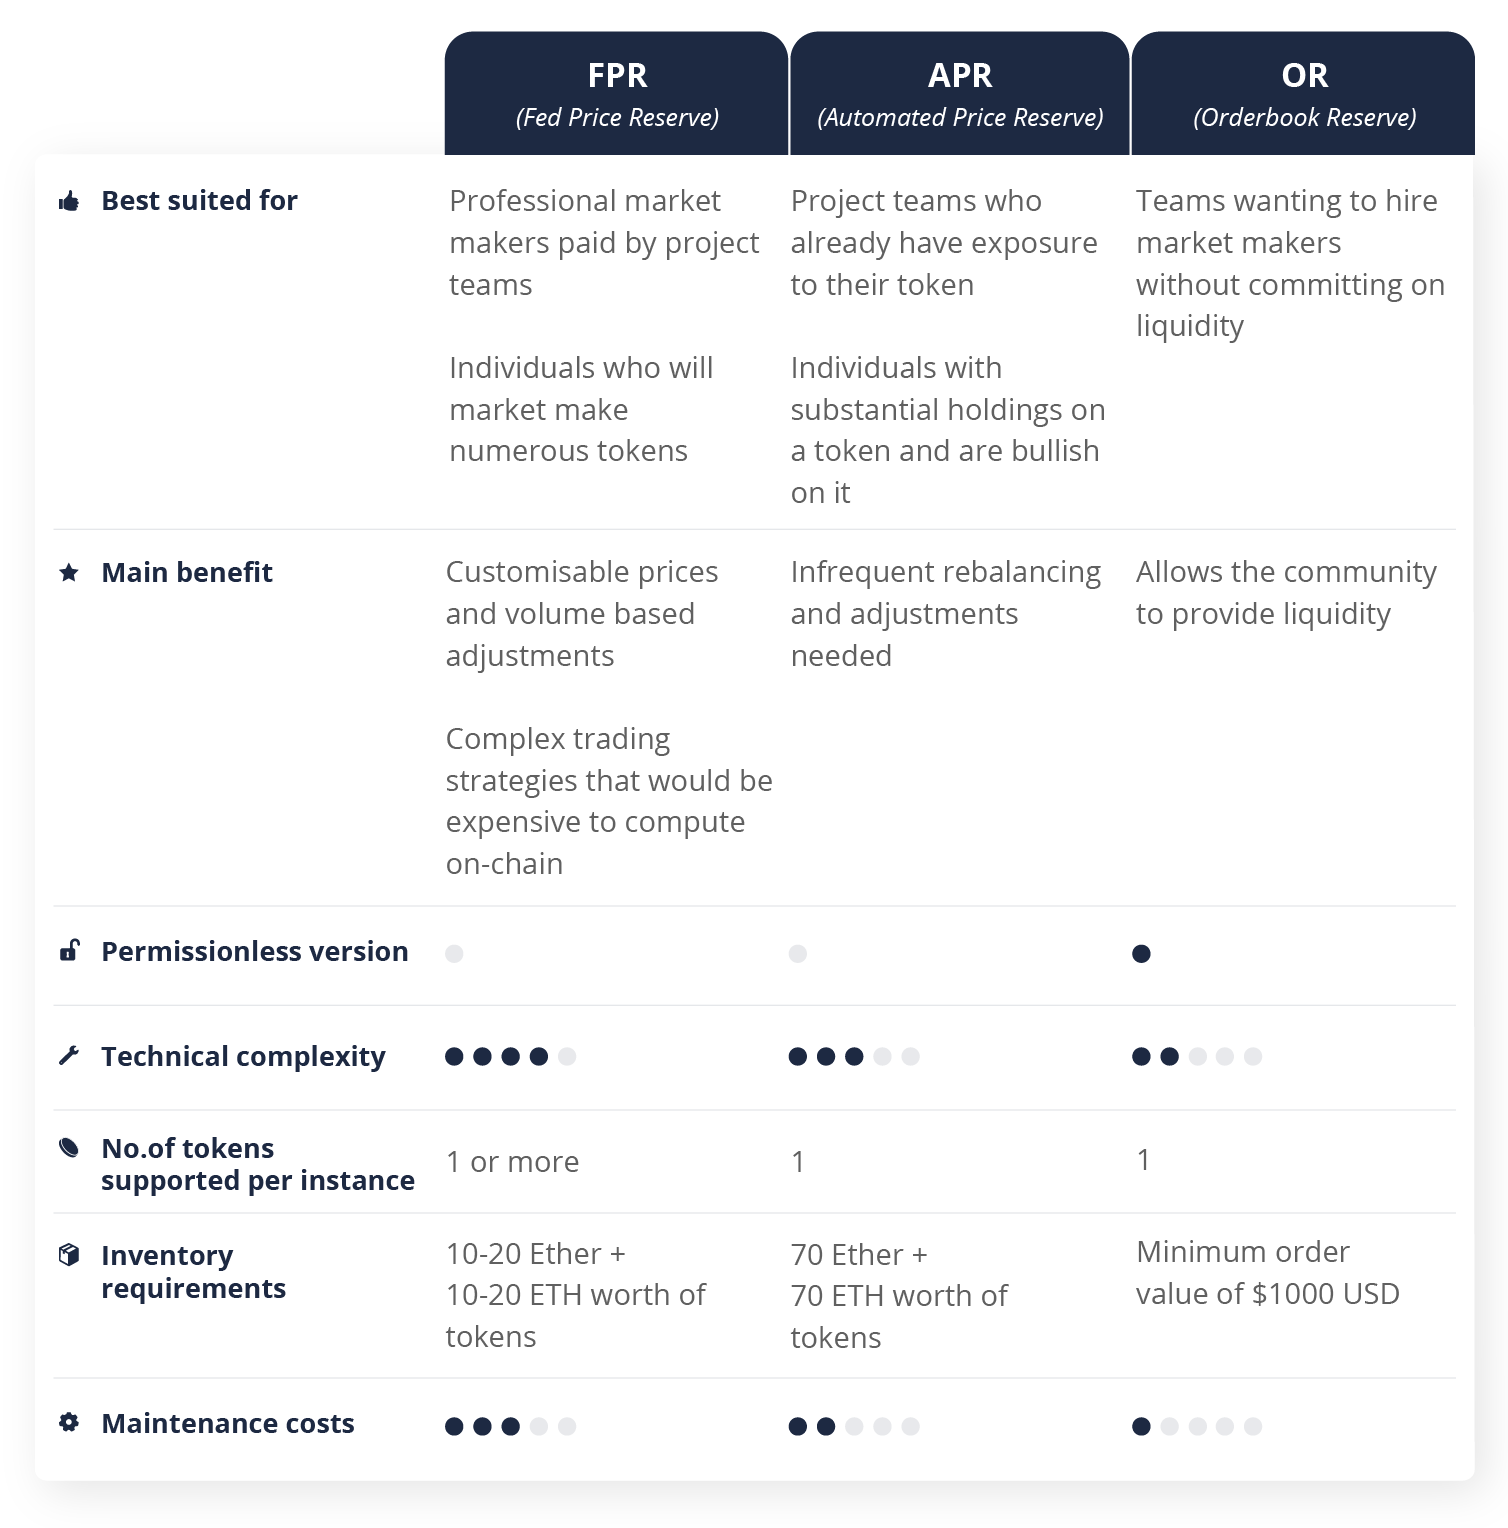
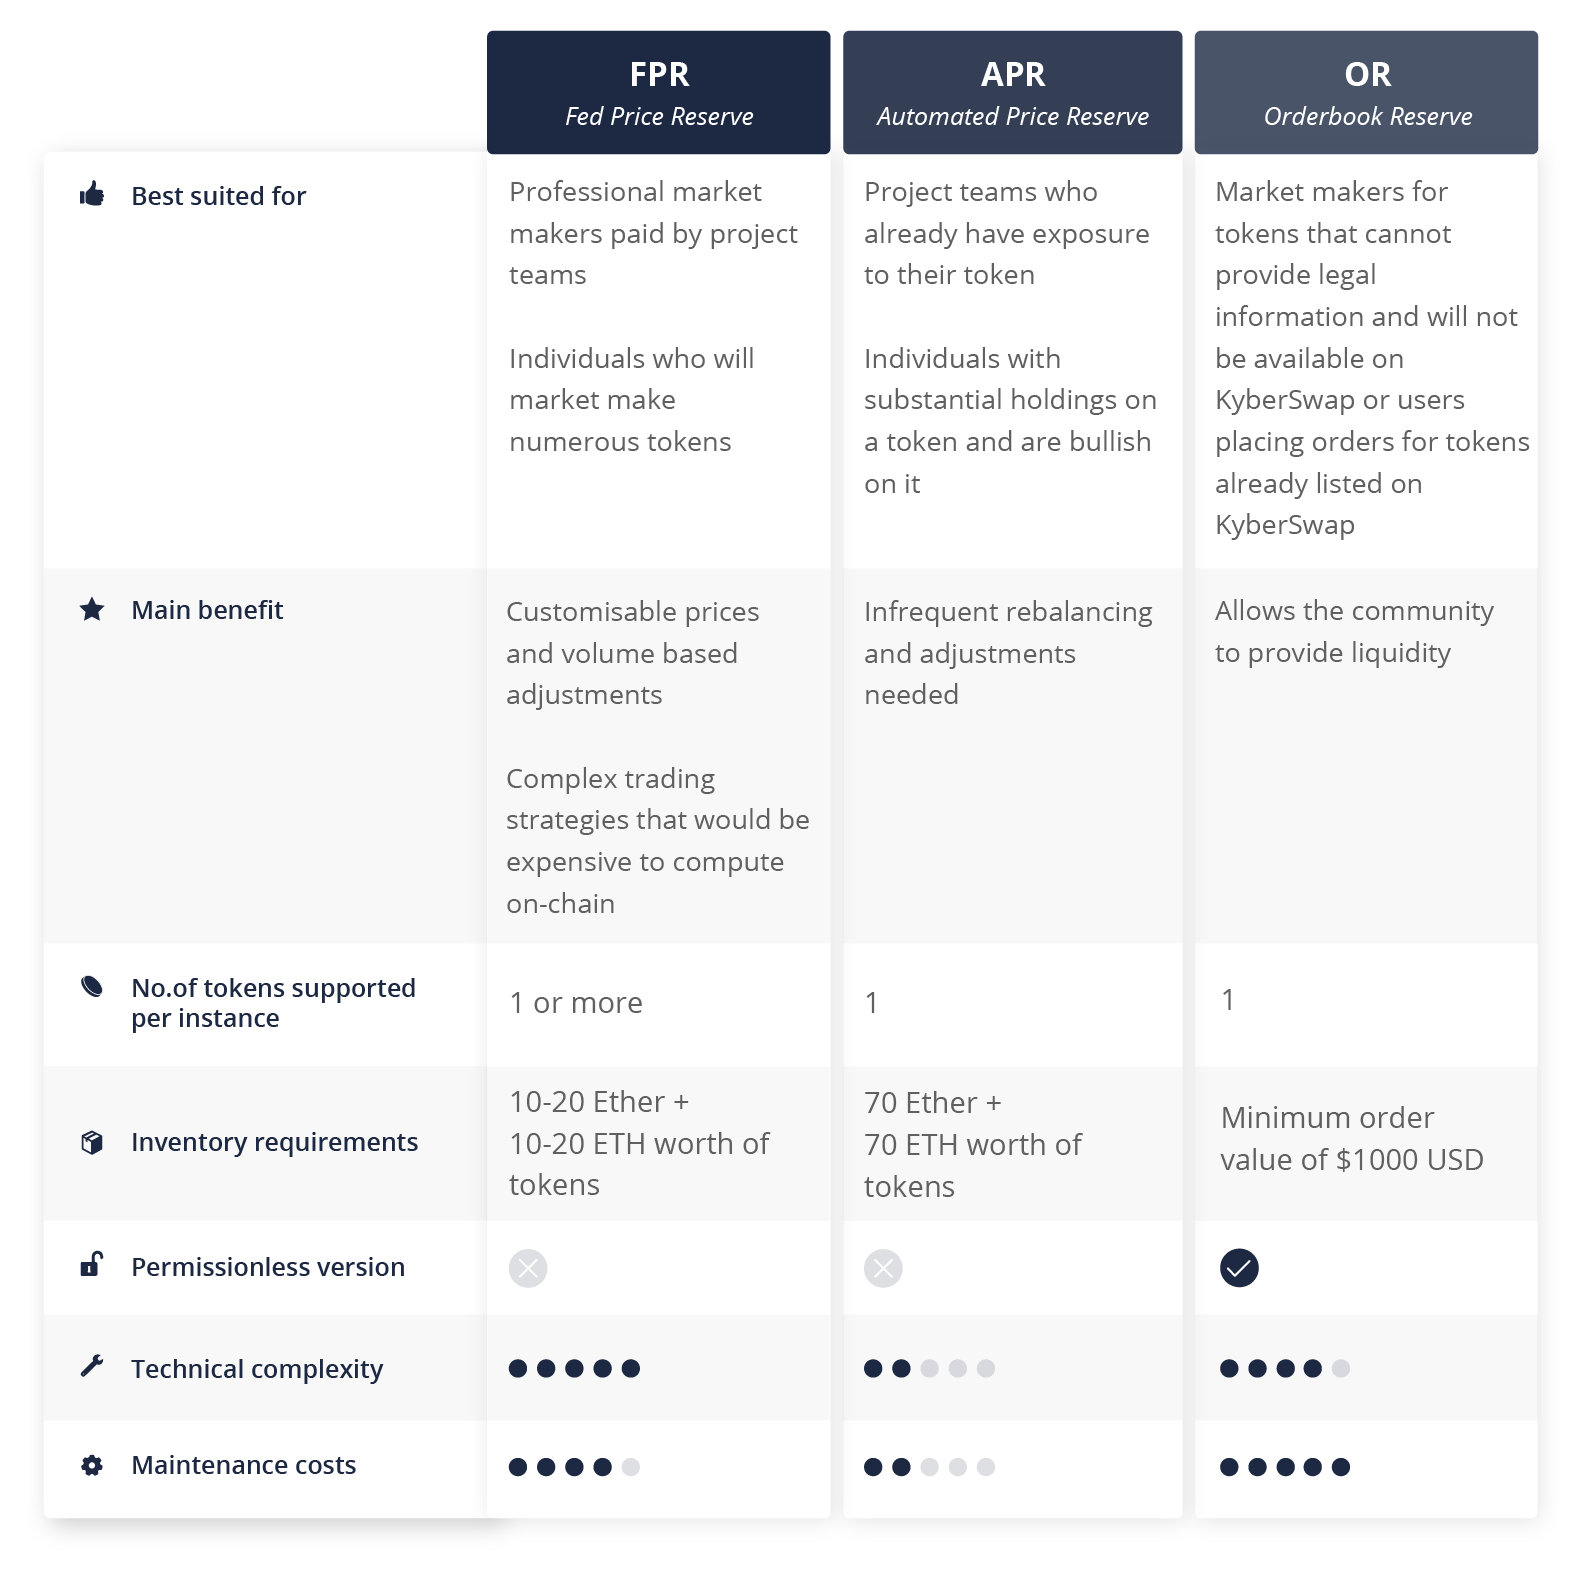
Updated reserve type image and almost completed plugin guide

diff --git a/docs/references-woocommerceplugin.md b/docs/references-woocommerceplugin.md
@@ -2,5 +2,71 @@
 id: References-WooCommercePlugin
 title: WooCommerce Plugin
 ---
+The plugin parameters are defined in the widget as payment gateway settings in Woocommerce and also defined in the source file `kyber-settings.php`. The main logic of handling payments through the widget is defined in the source file `class-woo-kyber-payment-gateway.php`.
 
-woo commerce plugin
+## Plugin Parameters
+| Parameter |          Description          |     Example     |
+| --------- | ----------------------------- | --------------- |
+| `Title`   | Title to be displayed for the KyberWidget WooCommerce payment option for users in the checkout pages. | Kyber Payment Gateway |
+| `Description` | Describe what the payment gateway is for. It will be displayed under the payment options. | Pay with tokens |
+| `Receive Address` | Wallet address to receive the payment. This address is <b>required</b>. Without this address, payment will not be processed | `0xf6d420FAB01826386e39664770299eADD68617da` |
+| `Receive Token Symbol`   | Token symbol of the token you want to receive from payments. The token must be supported by Kyber Network. | KNC |
+| `Network` | ETH network that the payment gateway will run in. Either `Ropsten` (for testing) or `Mainnet` (for production) | Ropsten |
+| `Mode` | Behavior of how the widget will appear to the user. Find out more [here](references-kyberwidget.md#widget-mode). Either `tab`, `popup`, or `iframe` | popup |
+| `Network Node Endpoint` | Node endpoint to check tx status. If you do not have one, create one using [Infura](https://infura.io/) | https://ropsten.infura.io/v3/fb1b33 |
+| `Block Confirmation` | Number of block confirmations to finalize the transaction. Larger block confirmations mean longer confirmation times, but are more secure | 40 |
+| `Commission ID` | Registered ETH address that is part of the [fee sharing program](guide-feesharing.md) | 0x2B522cABE9950D1153c26C1b399B293CaA99FcF9 |
+
+## Transaction Monitoring
+In order to check if the payment is successful, we use the [widget-monitor-php](https://github.com/KyberNetwork/widget-monitor-php) library to monitor the transaction.
+
+This plugin will retrieve the transaction receipt from the blockchain and return its status as well as validate the payment. It provides 2 modes for monitoring the tx status: `useIntervalLoop` or none. The `useIntervalLoop` plugin will continuously query a node to get the tx receipt until it reaches the desired block confirmation number. Note that this approach will consume a lot of server resources if there are many orders on-hold and block confirmation numbers are large.
+
+We recommend using a cronjob to check the order tx status periodically. We are already using wp_cron to monitor every 30 seconds. You can install and use WP Crontrol to view and edit that job.
+
+![Woocommerce Cron](/uploads/woocommerce-8.png "Woocommerce Cron")
+
+### Advanced Options
+The cron jobs above will run upon every page load. This approach has 2 main issues:
+1) As with any heavy job, it will slow down the page for users
+2) It is dependent on the user request to run the cronjob. Therefore, it is recommended to disable the WordPress default cronjob and setup a Linux (server) cronjob using crontab.
+
+Here is a guide on how to do this:
+
+1. Install crontab (if your server does not have it as default). You may need to search for instructions for your distro (Centos, RHEL, etc).
+
+2. Setup crontab.
+
+```sh
+crontab -e
+```
+
+3. Add the following line in order to run every minute to check the tx status.
+
+```sh
+curl http://example.com/wp-cron.php?doing_wp_cron > /dev/null 2>&1
+```
+
+Please make sure you use the correct path to wp-cron.php.
+
+Alternatively, you can use WP-cli
+
+```sh
+cd /var/www/example.com/htdocs; wp cron event run --due-now > /dev/null 2>&1
+```
+
+4. You will need to disable WordPress default wp-cron. Add following to wp-config.php.
+```php
+define('DISABLE_WP_CRON', true);
+```
+
+5. Finally, restart crontab service so the new job can run.
+```sh
+sudo service cron restart
+```
+
+## Contribution Guidelines
+If you are a developer and want to contribute, please check out the following guidelines for contributing to the Woocommerce Kyber Widget repository.
+
+* [Reporting Bugs](https://github.com/KyberNetwork/widget-woocommerce/blob/master/bug_report.md/)
+* [Featured Requests](https://github.com/KyberNetwork/widget-woocommerce/blob/master/feature_request.md/)

diff --git a/docs/integrations-pluginsguide.md b/docs/integrations-pluginsguide.md
@@ -2,4 +2,90 @@
 id: Integrations-PluginsGuide
 title: Plugins
 ---
-plugins
+## Introduction
+This guide will walk you through on adding a cryptocurrency payment gateway via the KyberWidget WooCommerce Plugin. People who use WordPress to build their websites will benefit most from this guide.
+
+## Overview
+We will cover the scenario where we walk through the.....
+
+## Prerequisites
+* PHP version 7.2+
+* WordPress 3.8+
+* WooCommerce 3.0+
+
+## Step 1: Installing the plugin
+### Option A: Clone Github Repo Source
+1. Clone the code repo to your `/wp-content/plugins/` directory
+
+```sh
+cd <PATH>/wp-content/plugins/
+git clone https://github.com/KyberNetwork/widget-woocommerce
+```
+
+2. Install the required components
+```sh
+composer install
+```
+
+### Option B: ZIP file
+1. Download the plugin zip file [here](https://github.com/KyberNetwork/widget-woocommerce/releases/)
+
+2. Unzip to your WordPress folder `/wp-content/plugins`
+
+
+## Step 2: Activating the plugin
+Activate the plugin in `/wp-admin/plugins.php`. After activation, you will find the plugin settings in your WordPress Dashboard under the WooCommerce->Payment section. Enabling the plugin will add an option to pay with tokens on the checkout page.
+
+
+## Step 3: Configure the plugin
+The configuration in this plugin is based on the widget configuration from the [Widget Generator](https://developer.kyber.network/docs/WidgetGenerator/), and is modified to fit the WooCommerce model. Information about the plugin settings can be found [here](references-woocommerceplugin.md#plugin-parameters).
+
+For this guide, we use the following settings shown below. You may configure them as you wish.
+| Parameter | Example |
+| --------- | --------------- |
+| `Title`                  | Kyber payment gateway |
+| `Description`            | Pay with your coins, tokens supported by Kyber |
+| `Receive Address`        | `0xf6d420FAB01826386e39664770299eADD68617da` |
+| `Receive Token Symbol`   | KNC |
+| `Network`                | Ropsten |
+| `Mode`                   | popup |
+| `Network Node Endpoint`  | https://ropsten.infura.io/v3/fb1b33 |
+| `Block Confirmation`     | 40 |
+| `Commission ID`          | 0x2B522cABE9950D1153c26C1b399B293CaA99FcF9 |
+
+![WooCommerce Config](/uploads/woocommerce-1.png "Woocommerce Config")
+
+## Step 4: Set item prices in fiat.
+Set the prices of your products in fiat currency.
+
+![Woocommerce Prices](/uploads/woocommerce-2.png "Woocommerce Prices")
+
+After doing do, you will notice that the item prices will be displayed in fiat.
+
+![Woocommerce Display](/uploads/woocommerce-3.png "Woocommerce Display")
+
+## Step 5: Testing Out the Widget
+Select an item for purchase and proceed to checkout. You will be presented with a similar view below.
+
+![Woocommerce Checkout](/uploads/woocommerce-4.png "Woocommerce Checkout")
+
+When the user pays for his shopping cart using the Kyber Payment Gateway option, the KyberWidget will handle the rest of the process. The user will be able to pay using any tokens supported by Kyber, while you (the vendor) will receive the payment in the token of your choice.
+
+![Woocommerce Widget](/uploads/woocommerce-5.png "Woocommerce Widget")
+
+The widget returns the transaction hash for the payment, which is used by the plugin for checking the transaction status.
+
+![Woocommerce Broadcasted](/uploads/woocommerce-6.png "Woocommerce Broadcasted")
+
+## Order Status
+When the transaction succeeds, the order status will change from `On-Hold` to `Processing`. At this stage, the website admin or vendor will receive a notification about the successful payment of the cart, and will start processing the shipment of the products.
+
+![Woocommerce Status](/uploads/woocommerce-7.png "Woocommerce Status")
+
+Should the transaction fail, the order status changes from `On-Hold` to `Failed`.
+
+### Order Flow
+The order's status follows the [Managing Orders](https://docs.woocommerce.com/document/managing-orders/) flow from WooCommerce. However, when the order is in `On-Hold` status, this plugin will monitor the transaction hash using the [monitor-eth-tx](https://packagist.org/packages/tranbaohuy/monitor-eth-tx/) library.
+
+The order status flow is summarised below.
+`Order created` -> `Pending payment` -> `On-Hold` (payment broadcasted & mornitored) -> `Processing` (successful payment) OR `Failed` (failed payment)

diff --git a/docs/reserves-requirements.md b/docs/reserves-requirements.md
@@ -1,6 +1,6 @@
 ---
 id: Reserves-Requirements
-title: Reserves Requirements
+title: Reserve Requirements
 ---
 ## Overview
 This section lists some guidelines on creating a new reserve type.
@@ -9,7 +9,7 @@ This section lists some guidelines on creating a new reserve type.
 ![Reserve Interface](/uploads/reserveinterface.png "Reserve Interface")
 The reserve interface provides a generic template of the contract functions one should implement in their smart contract. This interface may be tweaked depending on the needs and features of each blockchain. All existing reserve types, like the ones covered in the developer portal (Eg. Fed Price Reserve), as well as integrated reserves (Eg. Uniswap Reserve), implement this interface.
 
-For the exact functions and inputs to implement, refer to the [KyberReserveInterface](References-KyberReserveInterface.md) contract.
+For the exact functions and inputs to implement, refer to the [KyberReserveInterface](references-kyberreserveinterface.md) contract.
 
 ## Step 2: Write Unit Tests
 Smart contract security is of upmost importance. As such, we require tests to be written for the smart contract functions to ensure that they only do what is expected. You may take a look at our [test](https://github.com/KyberNetwork/smart-contracts/tree/master/test) repository for test script examples.
